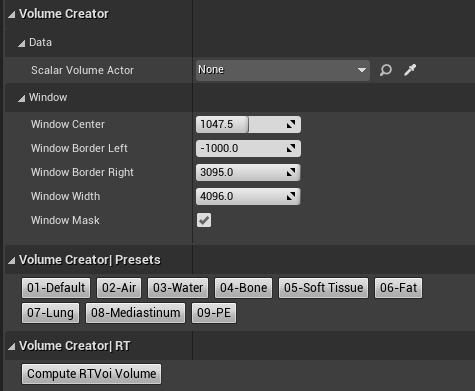
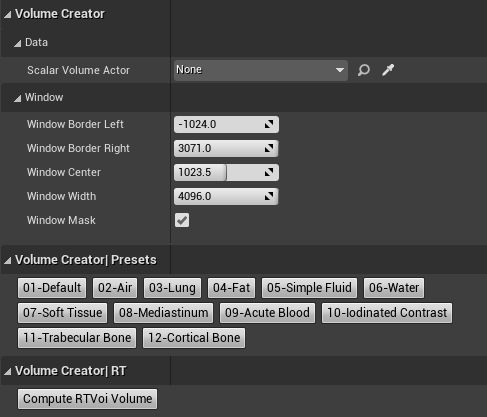
doc: Update Readme, VOI, Radiopedia HU

diff --git a/README.md b/README.md
@@ -1,6 +1,6 @@
 # Volume Creator: Unreal&reg; Engine Plugin for Medical Data Rendering &ndash; Readme
 
-This document is part of *"Volume Creator: An Unreal&reg; Engine Plugin for Medical Data Rendering &mdash; Documentation"*
+This document is part of *"Volume Creator: Unreal&reg; Engine Plugin for Medical Data Rendering &mdash; Documentation"*
 
 * Author: Copyright 2023 Roland Bruggmann aka brugr9
 * Profile on UE Marketplace: [https://www.unrealengine.com/marketplace/profile/brugr9](https://www.unrealengine.com/marketplace/profile/brugr9)
@@ -16,15 +16,15 @@ This document is part of *"Volume Creator: An Unreal&reg; Engine Plugin for Medi
 
 Adds Blueprint Support for Real-time 3D Rendering of Scalar Volumes from Medical Imaging Data.
 
-* Multiplanar Coronal/Sagittal/Axial Rendering
-* Direct Volume Rendering
+* Multiplanar Coronal &ndash; Sagittal &ndash; Axial Rendering
+* 3D Direct Volume Rendering
 * Values of Interest in Hounsfield Units
 
 ## Description
 
 Unreal&reg; Engine plugin "Volume Creator" enables real-time multiplanar and direct volume rendering from the Blueprint visual scripting system. The plugin acts as a framework which allows game developers to create VR/AR serious games, e.g., for teaching and training in medical education.
 
-The delivered assets provide importing DICOM&reg; or MetaImage&trade; based medical imaging data, applying values of interest aka DICOM Window and multiplanar or volume rendering colored from transfer functions based on look-up tables or color gradients. With a clipping plane and/or a clipping cube a rendered volume may be cropped. The volume can also be illuminated using CRI-R9 compliant operating room light sources.
+The delivered assets provide importing DICOM&reg; or MetaImage&trade; based medical imaging data, applying values of interest aka DICOM Window and multiplanar or volume rendering colored from transfer functions based on look-up tables or color gradients. A rendered volume may be cropped with a clipping plane and/or a clipping cube. The volume can also be illuminated using Color Rendering Index CRI-R9 compliant operating room light sources.
 
 <!-- UE Marketplace : End 1/2 -->
 
@@ -231,12 +231,14 @@ When setting the `AssetName Maximum Length`, note that an assets pathname may be
 
 ### 3.3. File Size
 
-CT image data is expected to come in Hounsfield Units HU, where the use of a range of [-1000, 3095] is documented (cp. [DICOM, FAQ]). These 4096 values can be represented by a twelve-digit binary number (12 bit, 2<sup>12</sup> = 4096). DICOM images therefore are stored as 12 bit data. Sometimes one also meet 16 bit data, that's why we also use 16 bit.
+CT image data is expected to come in Hounsfield Units HU, where the use of a range of [-1024, 3071] is documented. These 4096 values can be represented by a twelve-digit binary number (12 bit, 2<sup>12</sup> = 4096). DICOM images therefore are stored as 12 bit data (cp. [Radiopaedia, HU] and [DICOM, FAQ]).
+
+TODO: Sometimes one also meet 16 bit data, that's why we also use 16 bit.
 
 Let's assume we have a "Scalar Volume" as follows:
 
 * A Stack of 512 images of size 512 x 512 pixel per image = 512<sup>3</sup> pixel or voxel resp.
-* A single grayscale 16 bit channel: Grayscale G16 or "Half Float (R16F)" (1 channel, 16 bit); G: Hounsfield Units [-1000, 3095]
+* A single grayscale 16 bit channel: Grayscale G16 or "Half Float (R16F)" (1 channel, 16 bit); G: Hounsfield Units [-1024, 3071]
 * *Scalar Volume `T_SV_Volume` = 512<sup>3</sup> px x 1 x 16 bit/voxel = 134,217,728 voxel x 16 bit/voxel = 2,147,483,648 bit = 268,435,456 Byte = 256 MB*
 
 The Volume Texture file size in this example becomes 256 MB.
@@ -387,7 +389,7 @@ Parameter, Category 'Volume Creator' (see figure 'Details Panel'):
 
 #### 4.2.1. VOI Actor
 
-CT image data is expected to come in Hounsfield Units HU in a range of [-1000, 3095] (cp. section Import) representing 4096 gray levels for different materials where air is defined as -1000 HU and water as 0 HU. Consumer computer screens can only display 256 gray levels, represented by a value range of [0, 255]. Therefore the 4096 Hounsfield Units are mapped to 256 screen gray scale levels. In plugin "Volume Creator" the mapping is done by linear interpolation (Lerp).
+CT image data is expected to come in Hounsfield Units HU in a range of [-1024, 3071] (cp. section Import) representing 4096 gray levels for different materials where air is defined as -1000 HU and water as 0 HU. Consumer computer screens can only display 256 gray levels, represented by a value range of [0, 255]. Therefore the 4096 Hounsfield Units are mapped to 256 screen gray scale levels. In plugin "Volume Creator" the mapping is done by linear interpolation (Lerp).
 
 If the whole range of 4096 Hounsfield Units is mapped to 256 gray levels, the contrast becomes quite bad. Therefore, the so called Values Of Interest VOI aka 'DICOM Window' was introduced to downsize the range of Hounsfield Units to map. The window is defined by its center and width.
 
@@ -401,21 +403,21 @@ Parameter, Category 'Volume Creator' (see figure 'Details Panel'):
   * Type: Scalar Volume Actor `BP_SV` instance as Object Reference
   * Default Value: `none`
   * Description: Mandatory, Hounsfield Units data source
-* Window Center
-  * Type: `Float`
-  * Default Value: `1047.5`
-  * Range: [`-1000.0`, `3095.0`]
-  * Description: Window Center in Hounsfield Units (aka level or brightness)
 * Window Border Left
   * Type: `Float`
-  * Default Value: `-1000.0`
-  * Range: [`-1000.0`, `3095.0`]
+  * Default Value: `-1024.0`
+  * Range: [`-1024.0`, `3071.0`]
   * Description: Window Left (lower) Border in Hounsfield Units; which is calculated (not editable in the Details Panel)
 * Window Border Right
   * Type: `Float`
-  * Default Value: `3095.0`
-  * Range: [`-1000.0`, `3095.0`]
+  * Default Value: `3071.0`
+  * Range: [`-1024.0`, `3071.0`]
   * Description: Window Right (upper) Border in Hounsfield Units; which is calculated (not editable in the Details Panel)
+* Window Center
+  * Type: `Float`
+  * Default Value: `1023.5`
+  * Range: [`-1024.0`, `3071.0`]
+  * Description: Window Center in Hounsfield Units (aka level or brightness)
 * Window Width
   * Type: `Float`
   * Default Value: `4096.0`
@@ -431,25 +433,20 @@ If a parameter from above is changed in a VOI Actor instance from the Editor Det
 The VOI range can also be set by clicking one of the VOI range buttons (see figure 4.2.1.2.). The window center and width are calculated from the specified left and right border values (see table 4.2.1.1.). Here the "Texture Render Target VOI Volume" is automatically recalculated.
 
 *Table 4.2.1.1.: VOI Ranges*<br>
-| Name | Left | Right | Center | Width |
-|:------------|----------:|----------:|----------:|---------:|
-| Default     | `-1000.0` |  `3095.0` |  `1047.5` | `4096.0` |
-| Air         | `-1000.0` | `-1000.0` | `-1000.0` |    `1.0` |
-| Water       |     `0.0` |     `0.0` |     `0.0` |    `1.0` |
-| Bone        |   `400.0` |  `1000.0` |   `700.0` |  `601.0` |
-| Soft Tissue |    `40.0` |    `80.0` |    `60.0` |   `41.0` |
-| Fat         |  `-100.0` |   `-60.0` |   `-80.0` |   `41.0` |
-| Lung        |  `-600.0` |  `-400.0` |  `-500.0` |  `201.0` |
-| Mediastinum |    `50.0` |   `500.0` |   `275.0` |  `451.0` |
-| PE          |   `100.0` |   `700.0` |   `400.0` |  `601.0` |
-<!--
-| Bone        |  `-100` |   `900` |   `400` | `1000` |
-| Air         |  `-926` |    `74` |  `-426` | `1000` |
-| Brain       |     `0` |   `100` |    `50` |  `100` |
-| Abdomen     |  `-135` |   `215` |    `40` |  `350` |
-| Lung        | `-1200` |   `200` |  `-500` | `1400` |
-| PET         |  `1000` | `11000` |  `6000` |`10000` |
--->
+| Name                | Left      | Right     | Center    | Width    |
+|:--------------------|----------:|----------:|----------:|---------:|
+| Default             | `-1024.0` |  `3071.0` |  `1023.5` | `4096.0` |
+| Air                 | `-1000.0` | `-1000.0` | `-1000.0` |    `1.0` |
+| Lung                |  `-600.0` |  `-400.0` |  `-500.0` |  `201.0` |
+| Fat                 |  `-100.0` |   `-60.0` |   `-80.0` |   `41.0` |
+| Simple Fluid        |   `-10.0` |    `20.0` |     `5.0` |   `31.0` |
+| Water               |     `0.0` |     `0.0` |     `0.0` |    `1.0` |
+| Soft Tissue         |    `30.0` |    `45.0` |    `37.5` |   `16.0` |
+| Mediastinum         |    `50.0` |   `500.0` |   `275.0` |  `451.0` |
+| Acute Blood         |    `60.0` |    `90.0` |    `75.0` |   `31.0` |
+| Iodinated Contrast  |   `100.0` |   `500.0` |   `300.0` |  `401.0` |
+| Trabecular Bone     |   `300.0` |   `800.0` |   `550.0` |  `501.0` |
+| Cortical Bone       |  `1000.0` |  `3000.0` |  `2000.0` | `2001.0` |
 
 ![Level Blueprint, SpawnActor VOI Actor](Docs/BP_VOI-SpawnActor.png "Level Blueprint, SpawnActor VOI Actor")<br>*Fig. 4.2.1.2.: Level Blueprint, SpawnActor VOI Actor*
 
@@ -472,17 +469,17 @@ Plugin "Volume Creator" provides with a "Values Of Interest User Widget" or VOI 
 
 Widget Input (see figures 4.2.2.1. and 4.2.2.2.):
 
-* Center:
-  * Type: Slider
-  * Description:  With moving slider "Center"
-    * Slider "Width" is static, slider "Left" and "Right" adapt
-    * If slider "Left" reaches minimum or slider "Right" reaches maximum: Slider "Width" also adapts.
 * Left:
   * Type: Slider
   * Description: With moving slider "Left", slider "Right" is static, slider "Center" and "Width" adapt.
 * Right:
   * Type: Slider
   * Description: With moving slider "Right", slider "Left" is static, slider "Center" and "Width" adapt.
+* Center:
+  * Type: Slider
+  * Description:  With moving slider "Center"
+    * Slider "Width" is static, slider "Left" and "Right" adapt
+    * If slider "Left" reaches minimum or slider "Right" reaches maximum: Slider "Width" also adapts.
 * Width:
   * Type: Slider
   * Description: With moving slider "Width"
@@ -1144,6 +1141,7 @@ The plugins assets naming convention is based on a scheme from [UEDoc, Recommend
   * [DICOM] **The DICOM Standard**. Online: [https://www.dicomstandard.org/current](https://www.dicomstandard.org/current)
   * [DICOM, FAQ] **DICOM Standard FAQ**. Online: [https://www.dicomstandard.org/faq](https://www.dicomstandard.org/faq)
   * [DICOM-Browser] Innolitics: **DICOM Standard Browser**. Online: [https://dicom.innolitics.com/ciods/ct-image](https://dicom.innolitics.com/ciods/ct-image)
+  * [Radiopaedia, HU] Greenway K, Murphy A, Gaillard F, et al.: **Hounsfield unit**. Reference article, Radiopaedia.org (Accessed on 25 Sep 2023) [https://doi.org/10.53347/rID-38181](https://doi.org/10.53347/rID-38181)
   * [Sharma 2021] Shivam Sharma: **Introduction to DICOM for Computer Vision Engineers**. In: *RedBrick AI*. Dec 15, 2021. Online: [https://medium.com/redbrick-ai/introduction-to-dicom-for-computer-vision-engineers-78f346bbc1fd](https://medium.com/redbrick-ai/introduction-to-dicom-for-computer-vision-engineers-78f346bbc1fd)
   * [Sharma 2022] Shivam Sharma: **DICOM Coordinate Systems &ndash; 3D DICOM for Computer Vision Engineers**. In: *RedBrick AI*. Dec 22, 2022. Online: [https://medium.com/redbrick-ai/dicom-coordinate-systems-3d-dicom-for-computer-vision-engineers-pt-1-61341d87485f](https://medium.com/redbrick-ai/dicom-coordinate-systems-3d-dicom-for-computer-vision-engineers-pt-1-61341d87485f)
   * [Adaloglouon 2020] Nikolas Adaloglouon: **Understanding Coordinate Systems and DICOM for Deep Learning Medical Image Analysis**. In: *The AI Summer*. July 16, 2020. Online: [https://theaisummer.com/medical-image-coordinates/](https://theaisummer.com/medical-image-coordinates/)
@@ -1204,11 +1202,11 @@ This documentation has **not been reviewed or approved** by the Food and Drug Ad
 
 **Documentation**: To acknowledge this documentation&mdash;be it, e.g., the Readme or the Changelog&mdash;please cite
 
-> Bruggmann, Roland (2023). *Volume Creator: An Unreal&reg; Engine Plugin for Medical Data Rendering &mdash; Documentation*, \[Readme, Changelog\]. GitHub; accessed [Year Month Day]. URL: [https://github.com/brugr9/UEPluginVolumeCreator](https://github.com/brugr9/UEPluginVolumeCreator). Licensed under [Creative Commons Attribution-ShareAlike 4.0 International](http://creativecommons.org/licenses/by-sa/4.0/)
+> Bruggmann, Roland (2023). *Volume Creator: Unreal&reg; Engine Plugin for Medical Data Rendering &mdash; Documentation*, \[Readme, Changelog\]. GitHub; accessed [Year Month Day]. URL: [https://github.com/brugr9/UEPluginVolumeCreator](https://github.com/brugr9/UEPluginVolumeCreator). Licensed under [Creative Commons Attribution-ShareAlike 4.0 International](http://creativecommons.org/licenses/by-sa/4.0/)
 
 ---
 <!-- Footer -->
 
 [![Creative Commons Attribution-ShareAlike 4.0 International License](https://i.creativecommons.org/l/by-sa/4.0/88x31.png)](https://creativecommons.org/licenses/by-sa/4.0/)
 
-*"Volume Creator: An Unreal&reg; Engine Plugin for Medical Data Rendering &mdash; Documentation"*. URL: [https://github.com/brugr9/UEPluginVolumeCreator](https://github.com/brugr9/UEPluginVolumeCreator). &copy; 2023 by Roland Bruggmann, Documentation licensed under Creative Commons Attribution-ShareAlike 4.0 International.
+*"Volume Creator: Unreal&reg; Engine Plugin for Medical Data Rendering &mdash; Documentation"*. URL: [https://github.com/brugr9/UEPluginVolumeCreator](https://github.com/brugr9/UEPluginVolumeCreator). &copy; 2023 by Roland Bruggmann, Documentation licensed under Creative Commons Attribution-ShareAlike 4.0 International.
